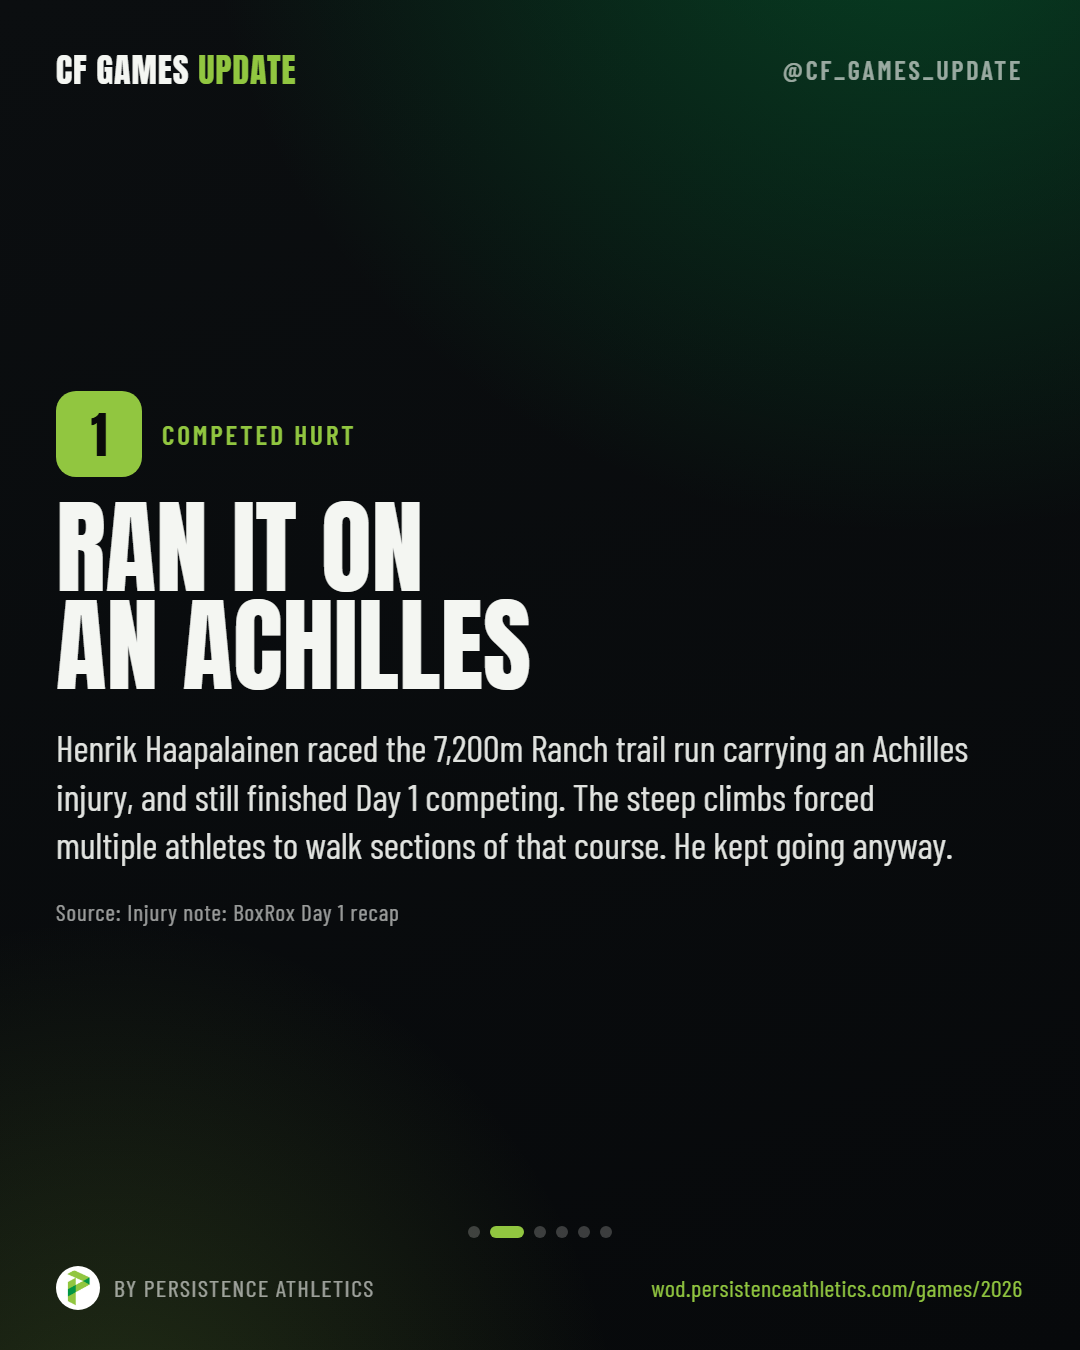
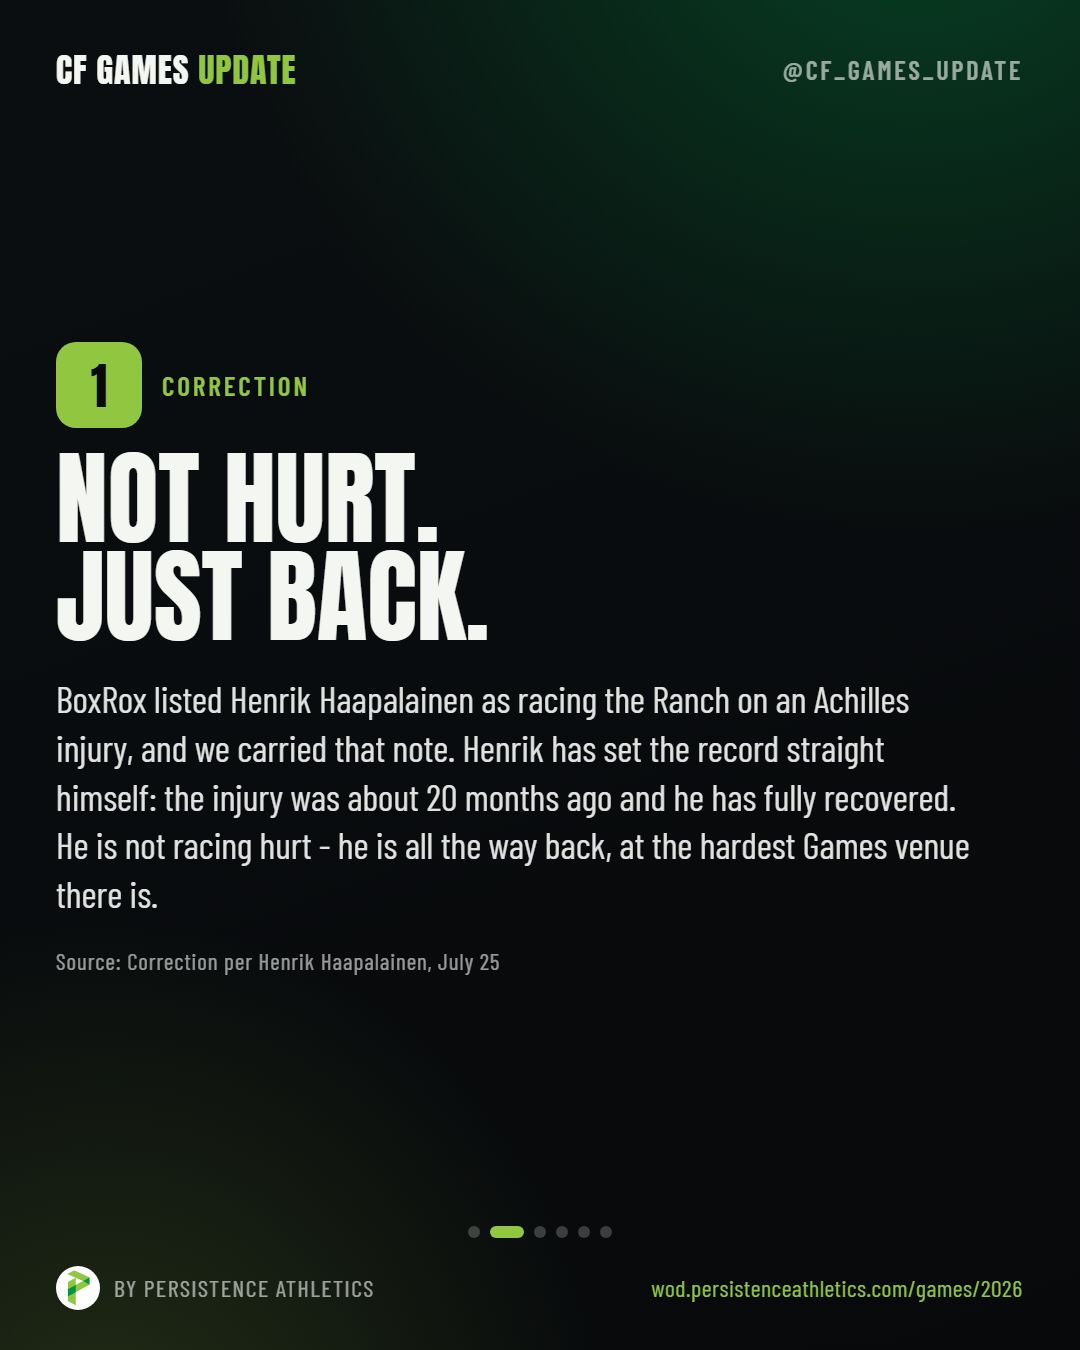
Correction: Haapalainen is not racing hurt (per the athlete himself)
Henrik Haapalainen replied on IG: the Achilles injury was ~20 months ago
and he has fully recovered. Removes the racing-on-an-Achilles claim from
day2-toll, day-1-took-a-toll, day1-records (slides + captions) and both
blogs; replaces with athlete-sourced correction framing.

Changed region(s): [[0.0306, 0.2489, 0.9167, 0.7156], [0.4278, 0.6844, 0.4583, 0.7156]]

diff --git a/src/games/CardStudio.tsx b/src/games/CardStudio.tsx
@@ -762,7 +762,7 @@ const CAROUSELS: Carousel[] = [
   {
     "id": "day2-toll",
     "label": "Day 2 Took Its Toll (and the swings)",
-    "caption": "Day 2 asked hard questions on hurt legs, and a few athletes answered with some of the best moments of the weekend. Henrik Haapalainen raced all of Day 2 on an Achilles injury and still crossed 4th on the Handstand Sprint. Lydia Fish had been limping on a Wednesday foot injury all day, then climbed the handstand course to a Games podium. Upside down, the foot doesn't matter.\n\nThe ankle trouble kept coming. Alexis Raptis competed on an ankle injury, plus a fall from the rope onto the mat on Event 8, and took 4th on the Handstand Sprint. Anikha Greer went on an injured ankle and took 5th. Add Fish's podium and the injured trio swept 3rd through 5th on the same event. Hannah Black shut down her Event 8 rope climbs early to protect the weekend, then came back the same day to take 2nd on the sandbag. Matilde Garnes looked spent on Event 10, walking the runs and time capped, the broadcast urging her to shut it down, then bounced back 5th on the hopper. Respect to every one of them.\n\nThen the swings that had nothing to do with injury. Ricky Garard led Event 10 unbroken, then one no-rep on his final round-3 rep sank it. James Sprague slipped on his final sandbag throw, went 16th, briefly lost the overall lead, then won it back within an event and defended it on the hopper with a clutch 4th. Dallin Pepper wore the leader jersey for exactly one event.\n\nAnd the answer-backs. Danielle Brandon's 3-straight handstand-event streak ended, outside the top 10 in her signature event, and ninety minutes later she answered with 3rd on the hopper. Lucy Campbell went 11th on the Snail, lost the overall 2nd, then turned around and won the hopper.\n\nThat's Day 2. Get hit, answer back. Injury notes per the Games broadcast coverage. Full recap and the live leaderboard are on the site.",
+    "caption": "Day 2 asked hard questions on hurt legs, and a few athletes answered with some of the best moments of the weekend. One correction, straight from the source: Henrik Haapalainen says he is not racing hurt - his Achilles injury was about 20 months ago and he has fully recovered, which makes his Handstand Sprint 4th pure fitness, no asterisk. Lydia Fish had been limping on a Wednesday foot injury all day, then climbed the handstand course to a Games podium. Upside down, the foot doesn't matter.\n\nThe ankle trouble kept coming. Alexis Raptis competed on an ankle injury, plus a fall from the rope onto the mat on Event 8, and took 4th on the Handstand Sprint. Anikha Greer went on an injured ankle and took 5th. Add Fish's podium and the injured trio swept 3rd through 5th on the same event. Hannah Black shut down her Event 8 rope climbs early to protect the weekend, then came back the same day to take 2nd on the sandbag. Matilde Garnes looked spent on Event 10, walking the runs and time capped, the broadcast urging her to shut it down, then bounced back 5th on the hopper. Respect to every one of them.\n\nThen the swings that had nothing to do with injury. Ricky Garard led Event 10 unbroken, then one no-rep on his final round-3 rep sank it. James Sprague slipped on his final sandbag throw, went 16th, briefly lost the overall lead, then won it back within an event and defended it on the hopper with a clutch 4th. Dallin Pepper wore the leader jersey for exactly one event.\n\nAnd the answer-backs. Danielle Brandon's 3-straight handstand-event streak ended, outside the top 10 in her signature event, and ninety minutes later she answered with 3rd on the hopper. Lucy Campbell went 11th on the Snail, lost the overall 2nd, then turned around and won the hopper.\n\nThat's Day 2. Get hit, answer back. Injury notes per the Games broadcast coverage. Full recap and the live leaderboard are on the site.",
     "slides": [
       {
         "type": "cover",
@@ -775,8 +775,8 @@ const CAROUSELS: Carousel[] = [
         "num": 1,
         "kicker": "Competed Hurt",
         "headline": "RACED HURT,\nCLIMBED ANYWAY",
-        "body": "Henrik Haapalainen raced all of Day 2 on an Achilles injury and still crossed 4th on the Handstand Sprint. Lydia Fish had been limping on a Wednesday foot injury all day, then climbed the handstand course to a Games podium. Upside down, the foot doesn't matter.",
-        "source": "Injury notes: Games broadcast coverage"
+        "body": "One correction, straight from the source: Henrik Haapalainen says he is not racing hurt - his Achilles injury was about 20 months ago and he has fully recovered, which makes his Handstand Sprint 4th pure fitness, no asterisk. Lydia Fish had been limping on a Wednesday foot injury all day, then climbed the handstand course to a Games podium. Upside down, the foot doesn't matter.",
+        "source": "Correction per Henrik Haapalainen; Fish note per broadcast"
       },
       {
         "type": "point",
@@ -1186,10 +1186,10 @@ const CAROUSELS: Carousel[] = [
     id: 'day-1-took-a-toll',
     label: 'Day 1 Took a Toll (injuries + drop-offs)',
     caption:
-      "Day 1 at the Ranch asked a lot, and a few athletes answered it hurt. Henrik Haapalainen raced the 7,200m trail run on an Achilles and still finished the day competing. Anika Greer went on an injured ankle. Rookie Hannah Black fought ankle trouble on the run, had no scored result on the bike, and sits 29th. Paige Rodgers battled her own ankle and still swam to 2nd. Those injury notes come from BoxRox's Day 1 recap, and respect to every one of them for staying in the fight.\n\nThen there is the other kind of Day 1 swing, the competitive one. Jay Crouch led the whole field after every event from 1 through 6, then a 19th-place swim dropped him to 4th. Healthy, just outswum. Colten Mertens won the squat and the press, took zero points on the bike at 21:48, and slid from 4th to 11th. No injuries there, just the leaderboard doing what it does.\n\nThat is the Games. One day, and the whole board rearranges. Full recap and the live leaderboard are on the site.",
+      "Day 1 at the Ranch asked a lot, and a few athletes answered it hurt. (First, a correction: BoxRox listed Henrik Haapalainen as racing on an Achilles - Henrik has since set the record straight himself: that injury was about 20 months ago, he has fully recovered, and he is not racing hurt.) Anika Greer went on an injured ankle. Rookie Hannah Black fought ankle trouble on the run, had no scored result on the bike, and sits 29th. Paige Rodgers battled her own ankle and still swam to 2nd. Those injury notes come from BoxRox's Day 1 recap, and respect to every one of them for staying in the fight.\n\nThen there is the other kind of Day 1 swing, the competitive one. Jay Crouch led the whole field after every event from 1 through 6, then a 19th-place swim dropped him to 4th. Healthy, just outswum. Colten Mertens won the squat and the press, took zero points on the bike at 21:48, and slid from 4th to 11th. No injuries there, just the leaderboard doing what it does.\n\nThat is the Games. One day, and the whole board rearranges. Full recap and the live leaderboard are on the site.",
     slides: [
       { type: 'cover', kicker: '2026 CrossFit Games / Day 1', headline: 'DAY 1\nTOOK A TOLL', sub: 'Some fell to injury, some fell on the board, and the two are not the same. Swipe through it.' },
-      { type: 'point', num: 1, kicker: 'Competed Hurt', headline: 'RAN IT ON\nAN ACHILLES', body: 'Henrik Haapalainen raced the 7,200m Ranch trail run carrying an Achilles injury, and still finished Day 1 competing. The steep climbs forced multiple athletes to walk sections of that course. He kept going anyway.', source: 'Injury note: BoxRox Day 1 recap' },
+      { type: 'point', num: 1, kicker: 'Correction', headline: 'NOT HURT.\nJUST BACK.', body: 'BoxRox listed Henrik Haapalainen as racing the Ranch on an Achilles injury, and we carried that note. Henrik has set the record straight himself: the injury was about 20 months ago and he has fully recovered. He is not racing hurt - he is all the way back, at the hardest Games venue there is.', source: 'Correction per Henrik Haapalainen, July 25' },
       { type: 'point', num: 2, kicker: 'Ankles Under Fire', headline: 'TWO WOMEN,\nHURT ANKLES', body: 'Anika Greer competed on an injured ankle. Rookie Hannah Black fought ankle trouble on the trail run, posted no scored result on the bike, and sits 29th. Both stayed in the fight. Respect to them.', source: 'Injury notes: BoxRox Day 1 recap' },
       { type: 'point', num: 3, kicker: 'Not An Injury', headline: 'LED SIX,\nFELL TO FOURTH', body: 'Different story, and it matters. This one is competitive, not physical. Jay Crouch led the whole field after every event from 1 through 6. Then a 19th-place swim knocked him from 1st all the way to 4th. Healthy, just outswum.', source: 'Official leaderboard' },
       { type: 'point', num: 4, kicker: 'Also Competitive', headline: 'WON THE LIFTS,\nSANK ON THE BIKE', body: 'Colten Mertens won both the squat and the press, then took zero points on the bike, crossing at 21:48. That dropped him from 4th to 11th. No injury here either, the bike just bit. That is Day 1 at the Games.', source: 'Official leaderboard' },
@@ -1200,7 +1200,7 @@ const CAROUSELS: Carousel[] = [
     id: 'day1-records',
     label: 'Day 1 Records & Firsts',
     caption:
-      "🏆 DAY 1 RECORDS & FIRSTS. The 2026 Games opener did not just move the leaderboard, it moved the record book.\n\nTHE HEAVIEST TOTALS: Colten Mertens posted a 1,380 lb CrossFit Total (555 squat / 260 press / 565 deadlift) and Alex Gazan a 920 lb Total (330 / 170 / 420) - both reported by BoxRox as new Games CrossFit Total records. Mertens won the squat AND the press; Gazan won the press outright.\n\nA FIRST: Ty Jenkins, 20, won the Swim Standard for the first event win of his career, ahead of two-time champion Justin Medeiros. Lucy Campbell was the only woman under 11 minutes in the pool.\n\nAND THE GRIT: Henrik Haapalainen raced the Ranch on an Achilles injury, Anika Greer competed on an injured ankle, and the trail run forced athletes to walk the steep climbs.\n\nFull Day 1 breakdown at the link in bio.",
+      "🏆 DAY 1 RECORDS & FIRSTS. The 2026 Games opener did not just move the leaderboard, it moved the record book.\n\nTHE HEAVIEST TOTALS: Colten Mertens posted a 1,380 lb CrossFit Total (555 squat / 260 press / 565 deadlift) and Alex Gazan a 920 lb Total (330 / 170 / 420) - both reported by BoxRox as new Games CrossFit Total records. Mertens won the squat AND the press; Gazan won the press outright.\n\nA FIRST: Ty Jenkins, 20, won the Swim Standard for the first event win of his career, ahead of two-time champion Justin Medeiros. Lucy Campbell was the only woman under 11 minutes in the pool.\n\nAND THE GRIT: Anika Greer competed on an injured ankle, and the trail run forced athletes to walk the steep climbs. (Correction: an earlier version also listed Henrik Haapalainen as racing on an Achilles - he has clarified he fully recovered from that injury about 20 months ago and is not racing hurt.)\n\nFull Day 1 breakdown at the link in bio.",
     slides: [
       { type: 'cover', kicker: 'Day 1 - Wed July 22', headline: 'RECORDS\n& FIRSTS', sub: 'The Games opener rewrote the record book and minted a brand-new event winner. The Day 1 superlatives. Swipe.' },
       { type: 'stat', kicker: 'The Record Book', headline: 'THE HEAVIEST\nTOTALS', stats: [
@@ -1210,7 +1210,7 @@ const CAROUSELS: Carousel[] = [
         { big: '170', label: 'Gazan won the shoulder press outright' },
       ], footnote: 'BoxRox reports both as new Games CrossFit Total records. On Day 1, Mertens and Gazan owned the barbell.' },
       { type: 'point', num: 1, kicker: 'The Firsts', headline: 'A 20-YEAR-OLD\nWON A GAMES EVENT', body: "Ty Jenkins, 20, won the Swim Standard for the first individual event win of his career - ahead of two-time champion Justin Medeiros. On the women's side, Lucy Campbell was the only athlete to break 11 minutes in the pool (10:55), winning by 69 seconds. Swimming decided the day.", source: 'Official leaderboard + BoxRox' },
-      { type: 'point', num: 2, kicker: 'The Grit', headline: 'THEY COMPETED\nHURT', body: 'Day 1 asked a brutal question and several answered it injured. Henrik Haapalainen raced the 7,200m Ranch carrying an Achilles injury; Anika Greer competed on an injured ankle; and the steep trail run forced multiple athletes to walk sections of the climbs. The opener was as much about toughness as fitness.', source: 'BoxRox Day 1 recap' },
+      { type: 'point', num: 2, kicker: 'The Grit', headline: 'THEY COMPETED\nHURT', body: 'Day 1 asked a brutal question and some answered it injured. Anika Greer competed on an injured ankle, and the steep trail run forced multiple athletes to walk sections of the climbs. The opener was as much about toughness as fitness. (Correction: Henrik Haapalainen, listed by BoxRox as racing on an Achilles, has clarified he fully recovered from that injury about 20 months ago.)', source: 'BoxRox Day 1 recap + athlete correction' },
       { type: 'cta', headline: 'THE FULL\nDAY 1', body: 'Both recap blogs, the data breakdown, and the live board are on the site. Day 2 is Friday - the arena opens.' },
     ],
   },
